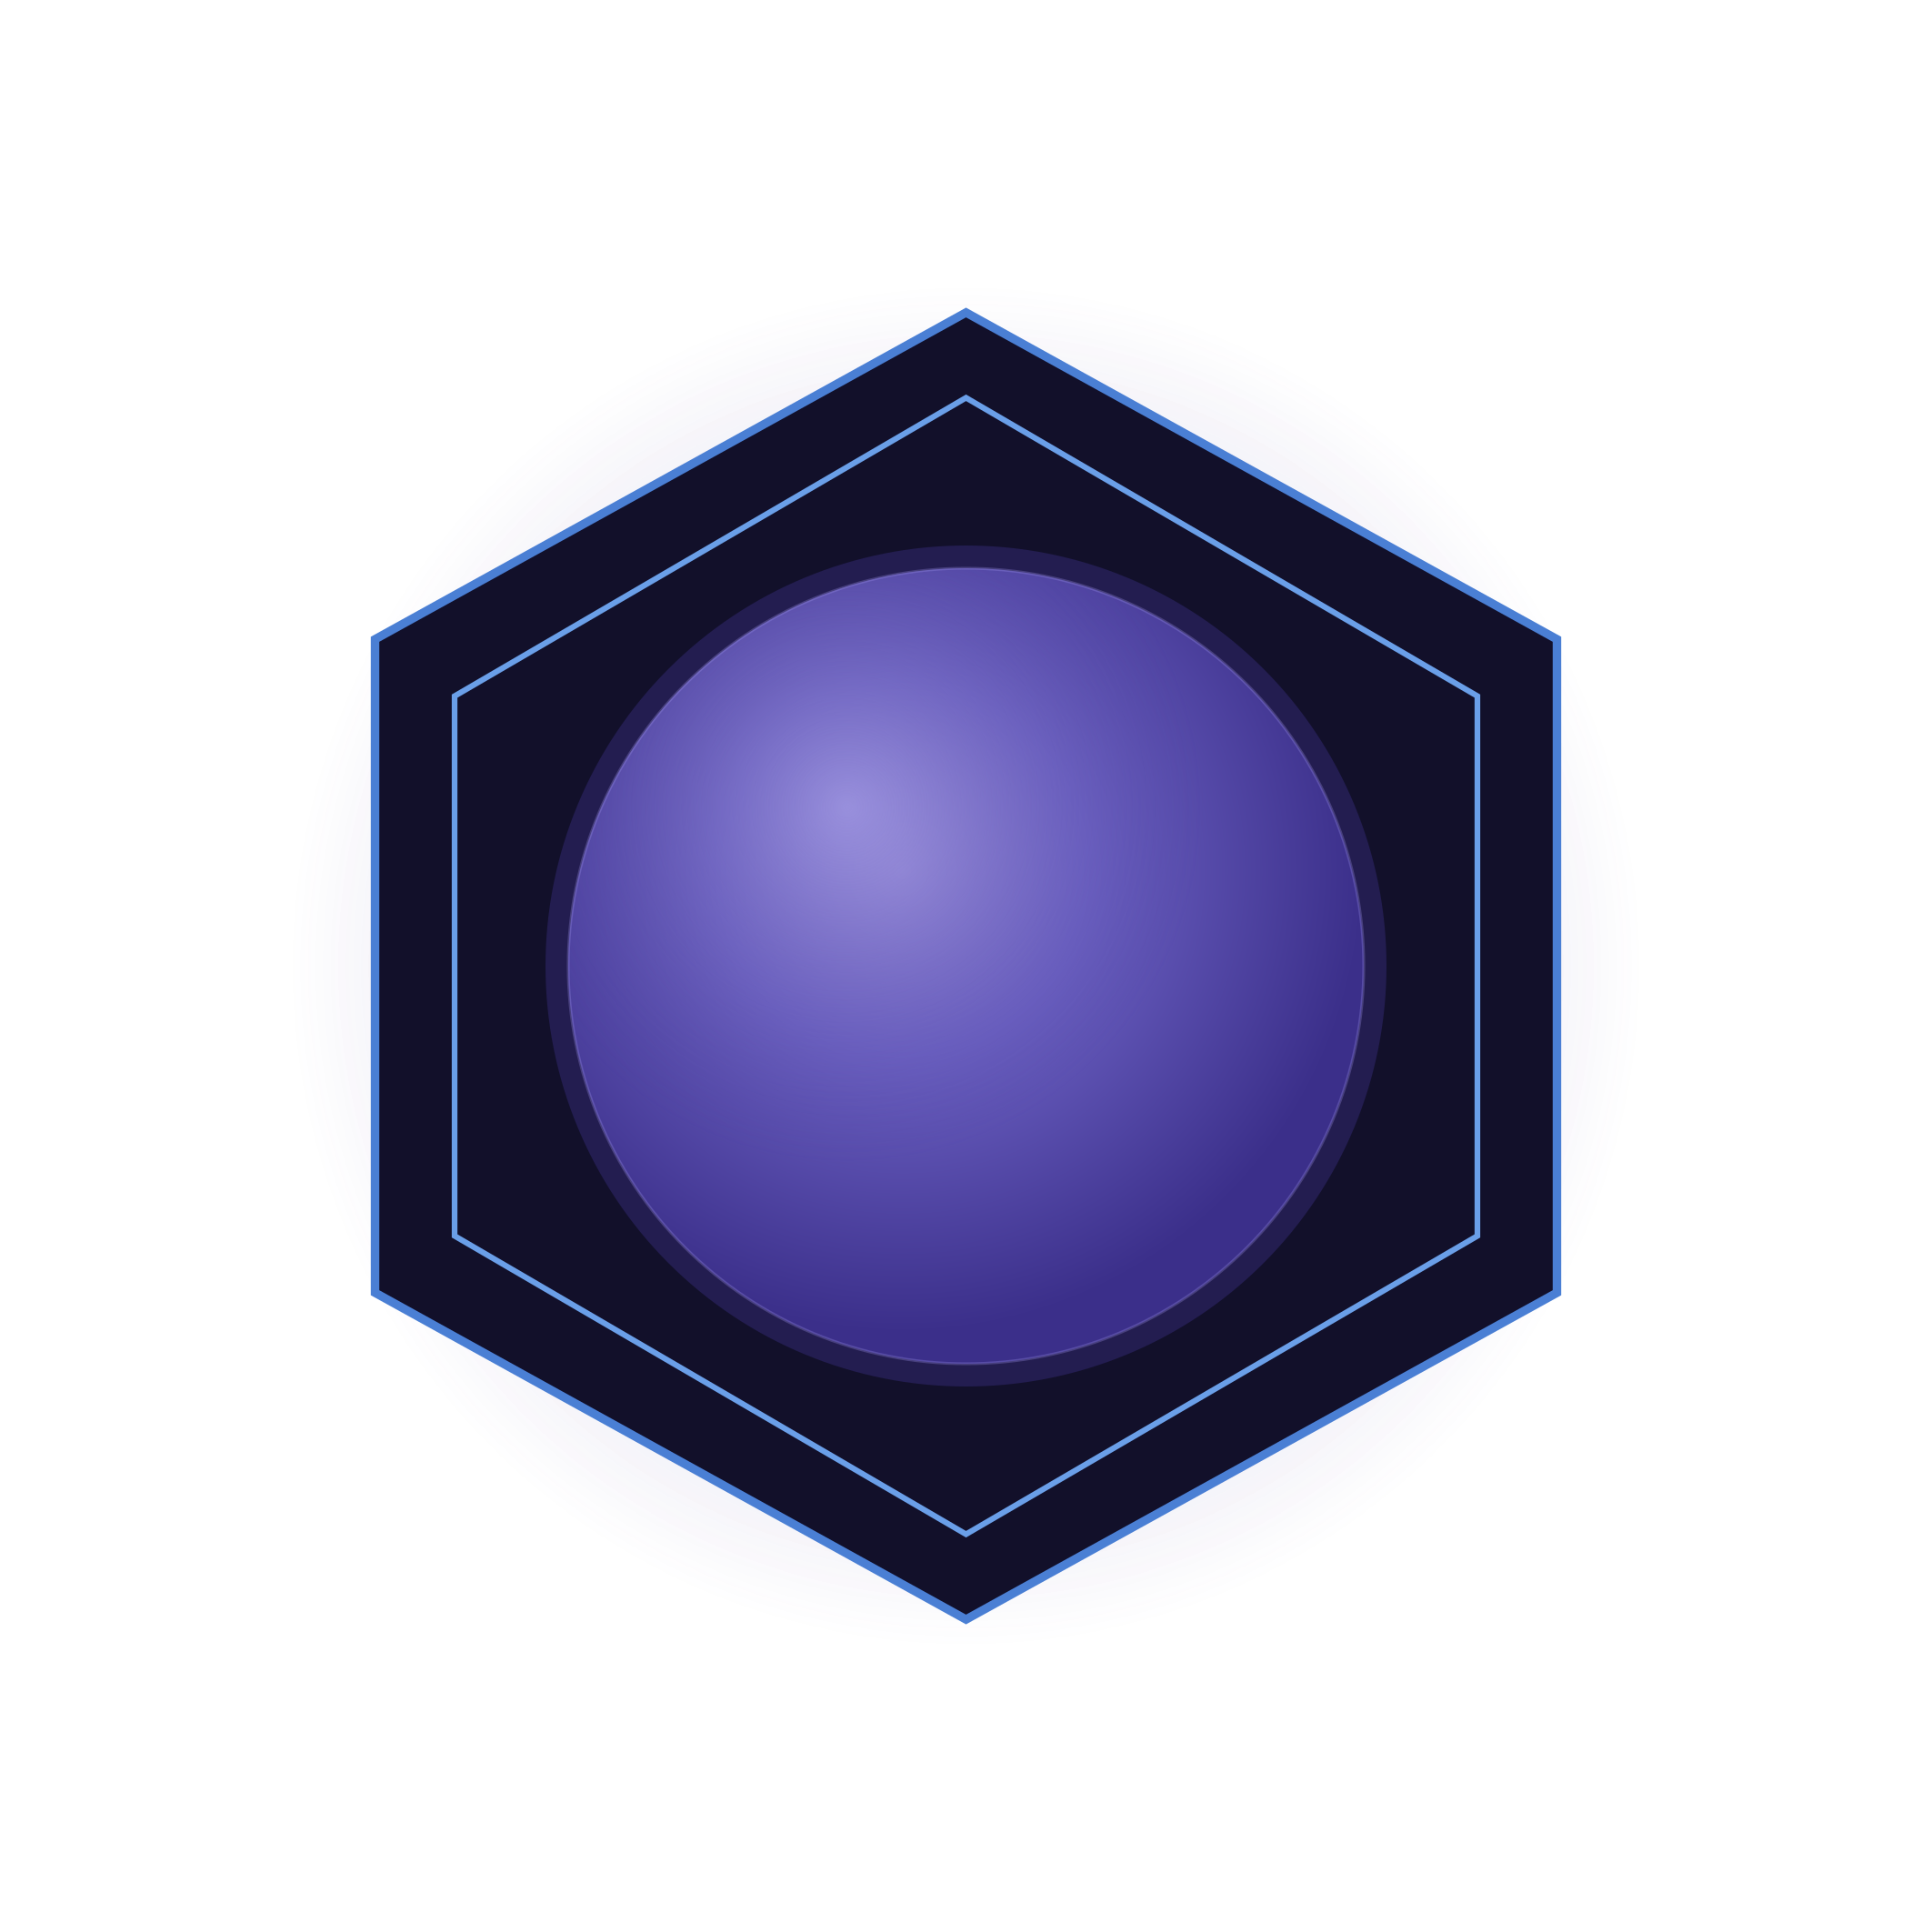
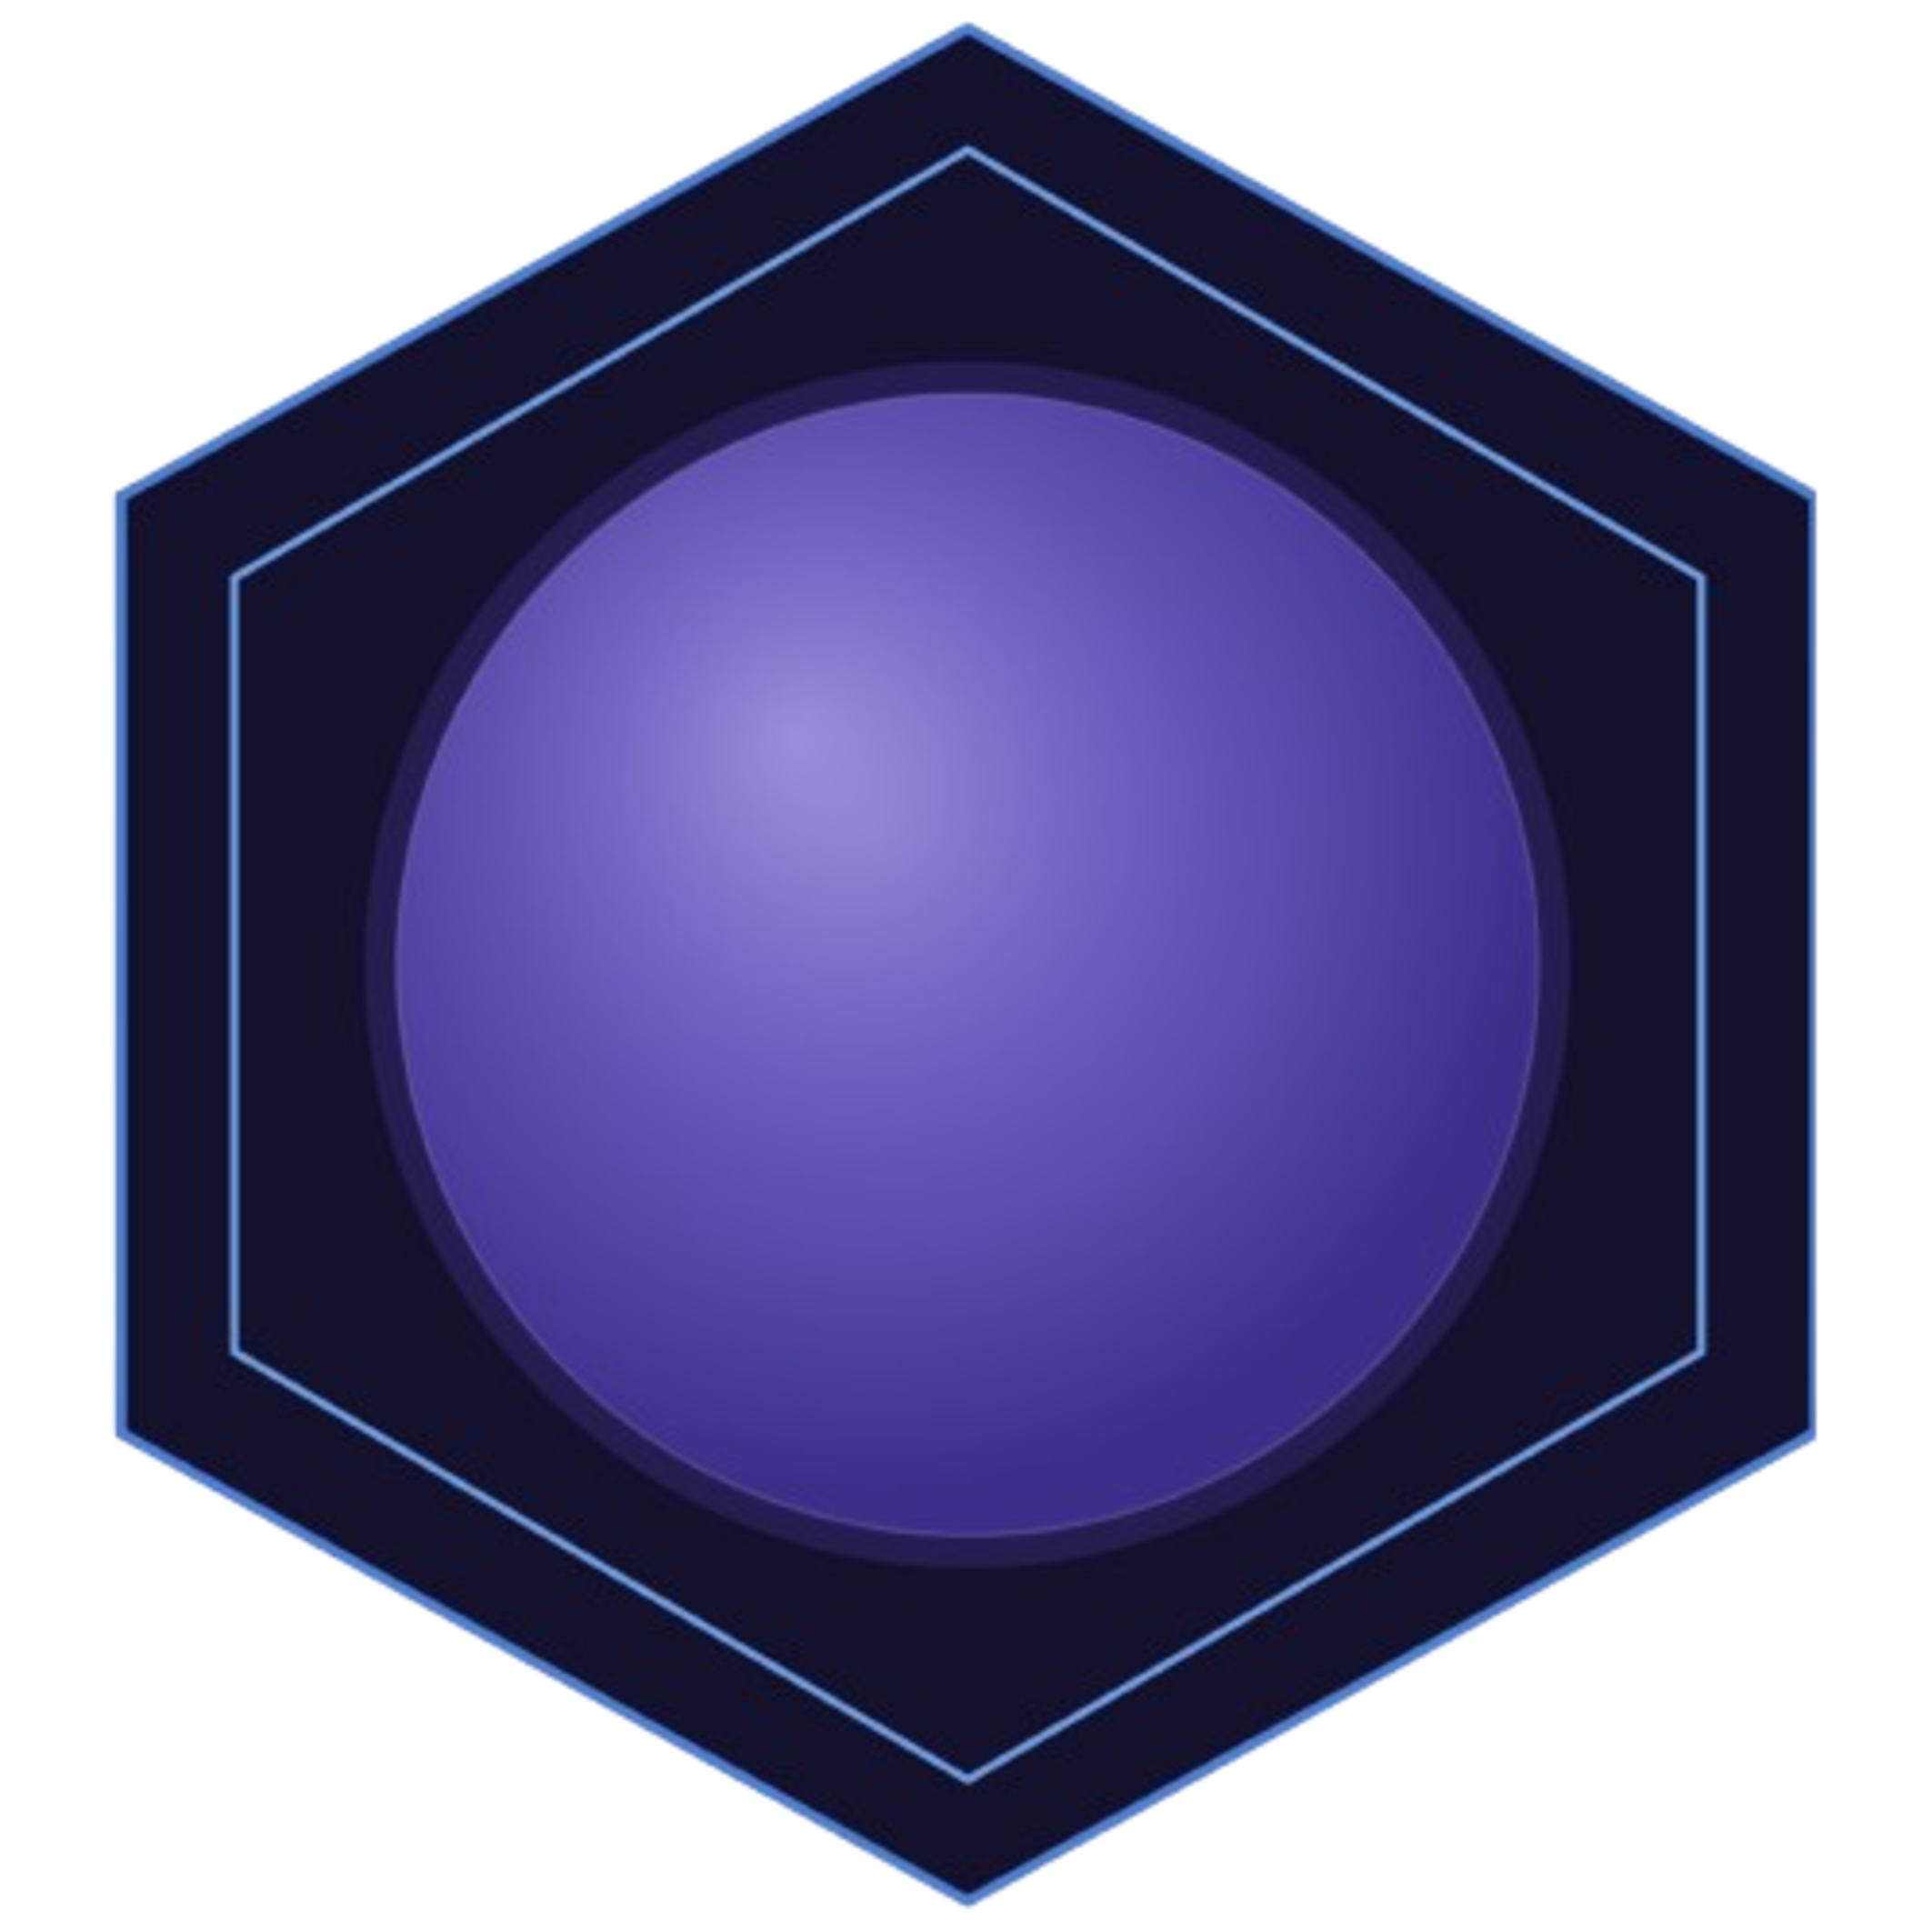
Cambiado tamaño del nucleo y arreglados tamaños de texto en IntroScreen

diff --git a/core/src/main/java/com/jovellanos/clicker/screens/IntroScreen.java b/core/src/main/java/com/jovellanos/clicker/screens/IntroScreen.java
@@ -88,8 +88,8 @@ public class IntroScreen extends BaseScreen {
         // Se definen variables de tamaño dinámicas para optimizar la visualización en formato móvil
         float textTableHeight = isMobile ? 600f : 220f;
         float iconSize = isMobile ? 80f : 32f;
-        float fontScaleDialog = isMobile ? 2.8f : 1.0f;
-        float fontScaleBtnSkip = isMobile ? 1.5f : 0.8f;
+        float fontScaleDialog = isMobile ? 2.8f : 1.2f;
+        float fontScaleBtnSkip = isMobile ? 1.5f : 1.0f;
 
         // Implementación de botón para omitir la cinemática
         btnSkip = new TextButton(LocaleManager.getInstance().getText("boton_skip"), ResourceManager.getSkin());
@@ -364,12 +364,13 @@ public class IntroScreen extends BaseScreen {
                 
                 Label popupLabel = new Label(i18n.getText("intro_escena_5"), ResourceManager.getSkin());
                 popupLabel.setAlignment(Align.center);
-                popupLabel.setFontScale(isMobile ? 2.3f : 1.0f);
+                popupLabel.setFontScale(isMobile ? 2.3f : 1.2f);
+                popupLabel.setWrap(true);
                 
                 Image continueIcon = new Image(ResourceManager.iconoAvance);
                 continueIcon.addAction(Actions.forever(Actions.sequence(Actions.fadeOut(0.5f), Actions.fadeIn(0.5f))));
 
-                popupTable.add(popupLabel).expand().center().padTop(isMobile ? 60 : 20).padBottom(15).row();
+                popupTable.add(popupLabel).width(isMobile ? 800f : 400f).expand().center().padTop(isMobile ? 60 : 20).padBottom(15).row();
                 popupTable.add(continueIcon).size(isMobile ? 64 : 24).padBottom(isMobile ? 40 : 15);
                 
                 popupWrapper.add(popupTable).width(isMobile ? 900 : 500);